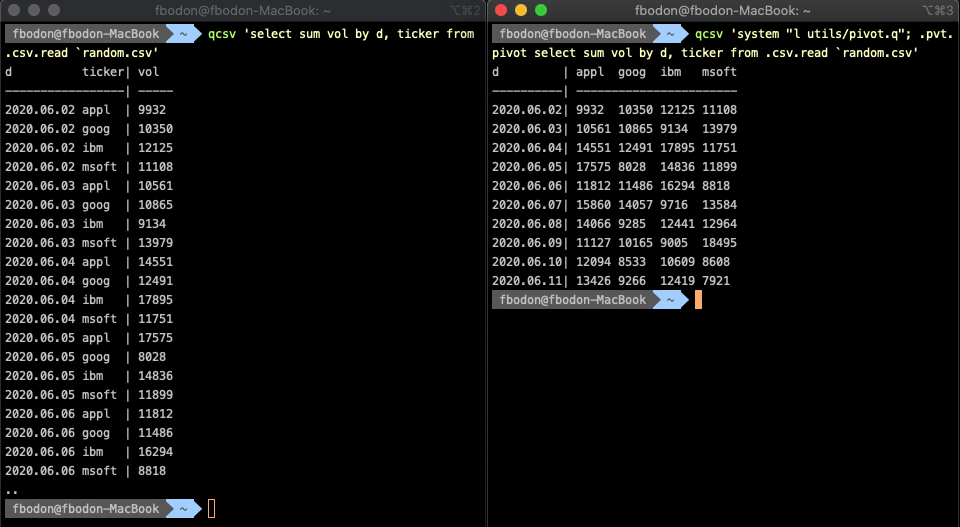
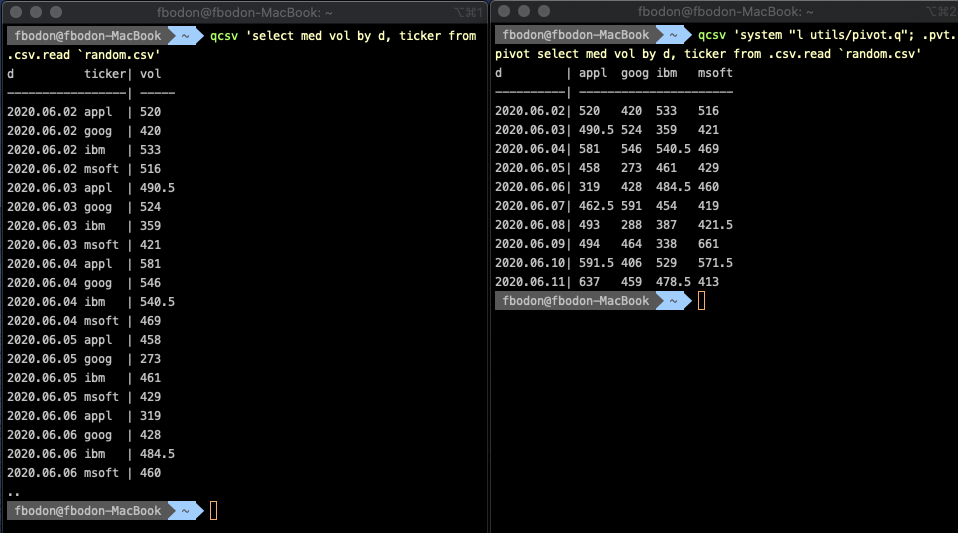
new paragraph: pivot with total

Changed region(s): [[0.0, 0.0, 0.999, 1.0], [0.9384, 0.0, 1.0, 0.0607]]

diff --git a/csv/csv.md b/csv/csv.md
@@ -327,6 +327,12 @@ I put a [wrapper function](https://github.com/BodonFerenc/kdbutils/blob/master/d
 
 ![pivot](pic/pivot.png)
 
+The q language lets you easily extend pivot tables by total columns and total rows provided you are ready to leave the convenient world of select statements and use functional forms. Exploring the functional equivalent of any select statement is beyond the scope of this paper. Here, I only show the solution to demonstrate feasibility.
+
+![pivot](pic/pivotWithTotal.png)
+
+Note, that the median of the totals cannot be directly derived from the raw pivot table. Three additional select statements are executed under the hood.
+
 ### Array columns
 Nothing prevents you from putting a list of values into a cell of a CSV. You just need to use a separator other than a comma, e.g. whitespace or semicolon. Unlike ANSI SQL, kdb+ can handle array columns.
 
